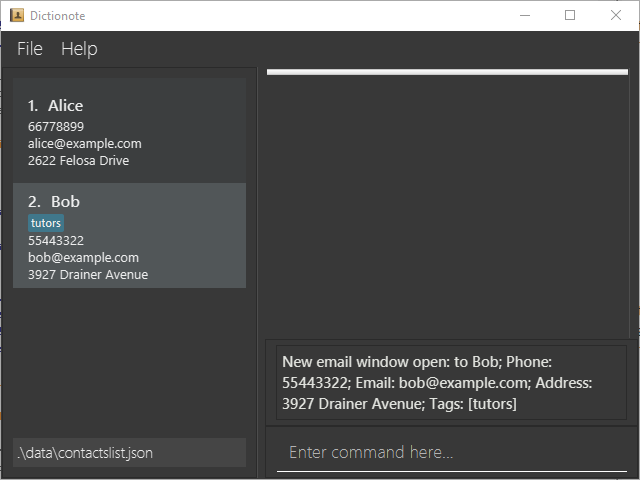
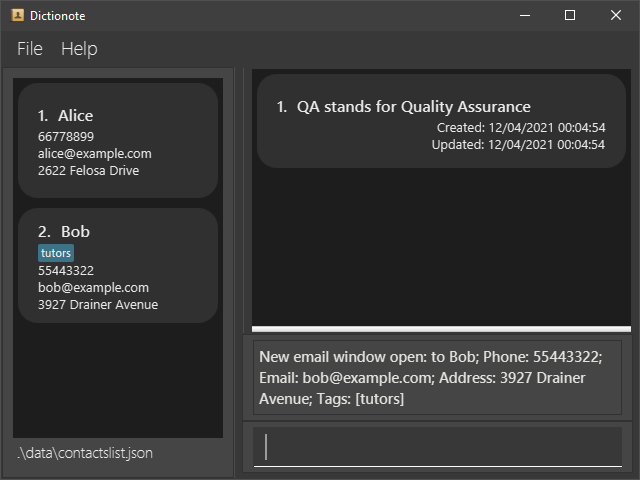
Update "Sending email to a contact" section

diff --git a/docs/DeveloperGuide.md b/docs/DeveloperGuide.md
@@ -176,19 +176,19 @@ This section describes some noteworthy details on how certain features are imple
 
 ##### Implementation
 
-This feature is implemented as a command, `EmailCommand`, that extends `Command`. It is an index-dependent command, meaning that the user must provide an index number when typing the command as a reference to a specific contact on the contacts list.
+This feature is implemented as a command, `EmailCommand`, that extends `Command`. It is an index-dependent command, meaning that the user must provide an index number when typing the command as a reference to a specific contact on the contacts list. In addition, the command has an optional index number argument that refers to a note within the note book.
 
-The index number was selected to refer to a particular contact. This is due to its character length being shorter in most cases than any other field of information in `Contact` objects, making it both simple and sufficient.
+The index number was selected to refer to a particular contact. This is due to its character length being shorter in most cases than any other field of information in `Contact` objects, making it both simple and sufficient. Likewise, notes are referred to by their index numbers for the same reasons.
 
-The `execute()` method attempts to open a new window of the user's operating system (OS) default mail client. This is done by navigating to a `mailto` link with the contact's email address added to the end.
+The `execute()` method attempts to open a new window of the user's operating system (OS) default mail client. This is done by navigating to a `mailto` link with the contact's email address added to the end. In case a note index number is provided, the contents of the note located at the specified index number will be copied to the messages's body field.
 
 As an example, consider running Dictionote on a Windows 10 machine with Microsoft Outlook as the OS default mail client:
 
-* Assume that the current state of the application is as follows (note the exisiting contacts on the left-side of the application's window):
+* Assume that the current state of the application is as follows (note the exisiting contacts on the left-side of the application's window and the note on the right):
 
 ![ContactEmailFeatureInitState](images/ContactEmailFeatureInitState.png)
 
-* After typing in `emailcontact 2` and executing it, the result would be:
+* After typing in `emailcontact 2 ni\1` and executing it, the result would be:
 
 ![ContactEmailFeatureExecute](images/ContactEmailFeatureExecute.png)
 
@@ -197,8 +197,9 @@ As an example, consider running Dictionote on a Windows 10 machine with Microsof
 ![ContactEmailFeatureOSClient](images/ContactEmailFeatureOSClient.png)
 
 * Note that the email of the selected contact, Bob (referred to in the command by his index number), is automatically written in the `To...` field of the email's header information.
+* Also note that the body of the message contains the contents of the first note on the list (that is, `QA stands for Quality Assurance`).
 
-Note that if the user does not have a mail client software set as default in their OS, then Dictionote will try to navigate to the `mailto` link through the user's default browser (i.e., the `mailto` link will be treated as an ordinary URL link).
+In case the user does not have a mail client software set as default in their OS, Dictionote will try to navigate to the `mailto` link through the user's default browser (i.e., the `mailto` link will be treated as an ordinary URL link).
 
 ##### Design Considerations
 
